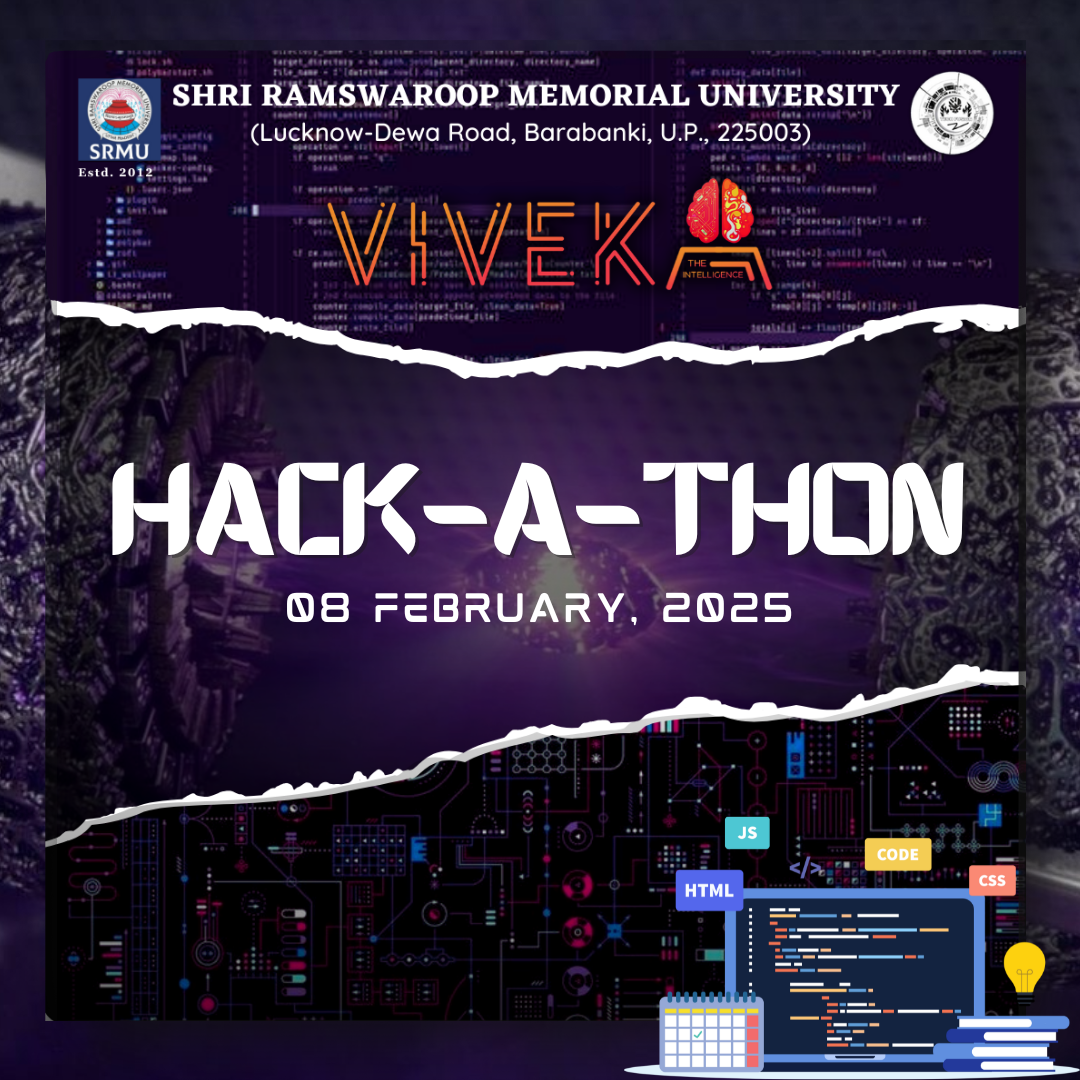
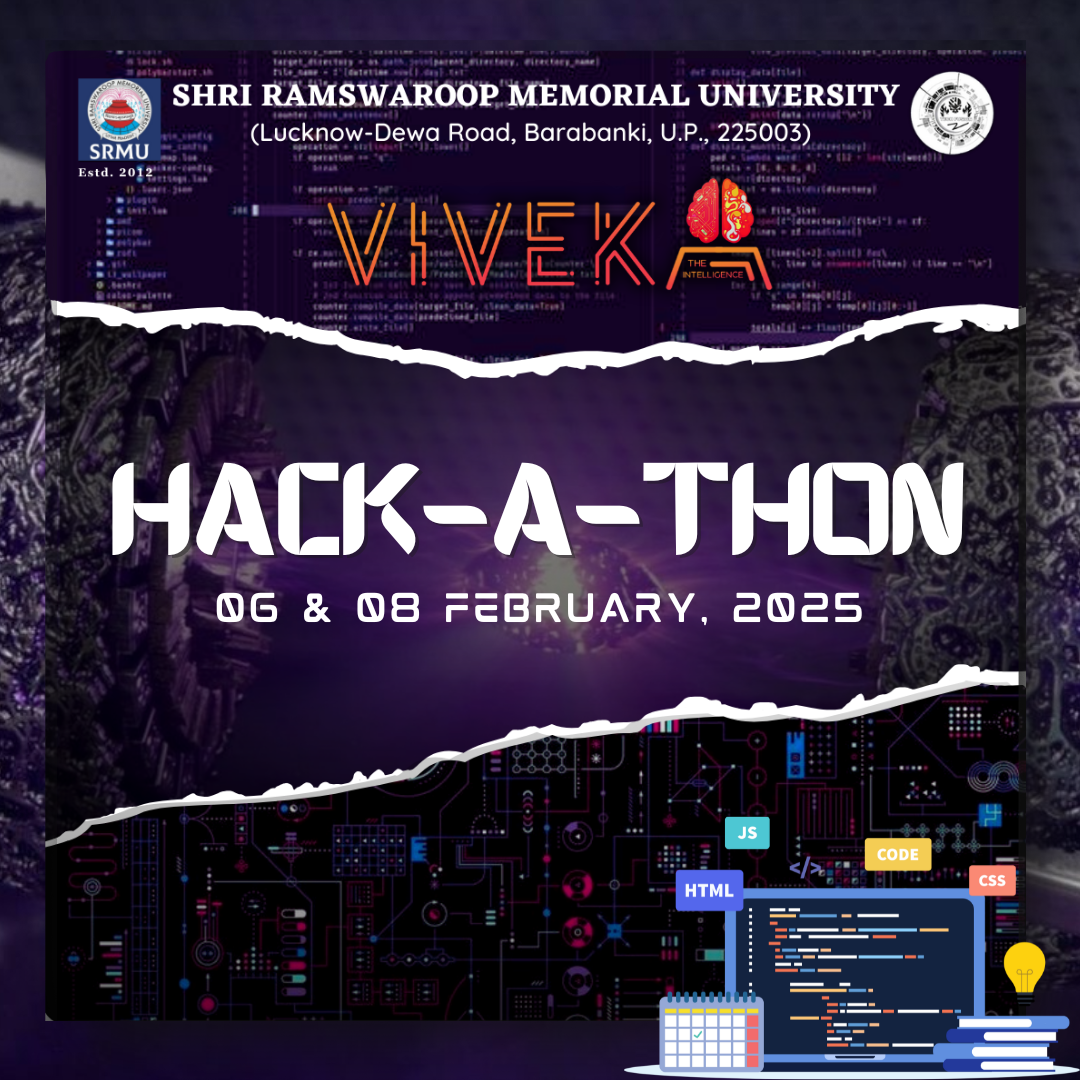
event posters updated

Changed region(s): [[0.1833, 0.55, 0.7944, 0.5806]]

diff --git a/client/src/assets/eventsData.js b/client/src/assets/eventsData.js
@@ -502,7 +502,7 @@ export const eventsData = [
     fees: [" Single Entry : ₹ 80/- \n  Couple Entry : ₹150/- \n  Group Entry : ₹400/- "],
     contactInfo: ["Kshitij : 9455813610", "Devesh Punjabi : 9171658780", "Shiv Mangalam Dubey : 9151702366 "],
     location: "Mini Audi",
-    date: "06th February , 2025 at ",
+    date: "06th February , 2025 at 12:00 PM ",
     // note: [
     //   "Crossing every hurdle is compulsory",
     //   "The organizers reserve the rights to change the above format, if necessary.",
